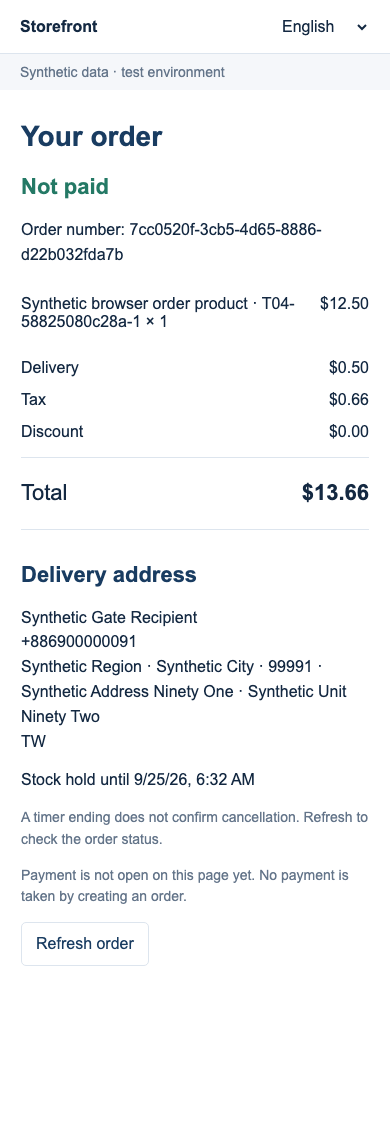
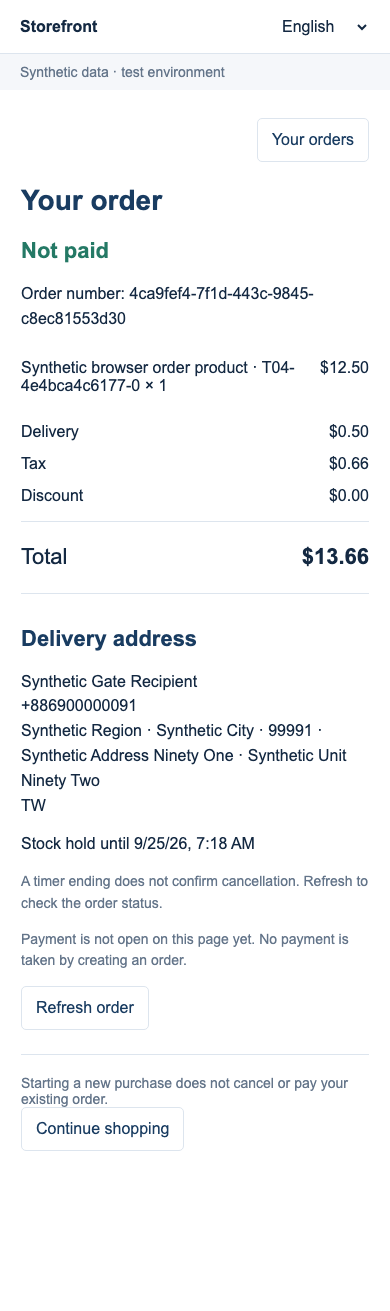
Record verified buyer history browser and visual evidence

diff --git a/README.md b/README.md
@@ -26,7 +26,7 @@
 - 买家商品数据前置：私有 `GET /v1/buyer/catalog` 已支持当前有效商品/SKU/现价、店铺隔离、受限查询和分页；[345 项回归与独立审查](docs/implementation/2026-09-25-buyer-catalog-discovery-acceptance.md)通过。这不是公开商城页面，也未生成分享链接或支付页。
 - 买家结账选项：私有 `GET /v1/buyer/checkout-options` 提供当前市场、地区、三语配送名称及下单所需版本；[353 项回归及 HTTP 选项→报价→宅配订单证据](docs/implementation/2026-09-25-buyer-checkout-options-acceptance.md)。复用现有结账权限与规则，不保证库存或承运资格；公开页面、可信超商选店和支付页仍待完成。
 - 买家会话重试前置：可信 BFF 用同一随机凭证调用私有 `POST /v1/buyer/session/bootstrap`，响应丢失或实例并发时保留同一身份、购物车及原期限；[17 项定向、361 项全量 race/vet 证据](docs/implementation/2026-09-25-buyer-session-registration-acceptance.md)。该历史切片仅为内部前置，后续浏览器传输见下一项。
-- 买家浏览器传输：`apps/storefront` 已有默认关闭的公开BFF、HttpOnly/context-CSRF、跨标签协调、持久退出与共享配额；[366项后端、7项前端单测、11场景真实Chromium→Next→Go→PG验收](docs/implementation/2026-09-25-buyer-browser-bff-acceptance.md)。实际传输链路到DRAFT订单/唯一库存预留。批准的[B商品详情直接选购](docs/implementation/2026-09-25-buyer-inline-progress.md)正在接入：真实页面已走到商品→购物车→报价，三语及跨标签恢复浏览器回归通过；地址/下单/支付UI、联合发布和真实DNS/TLS仍待完成。
+- 买家浏览器与B商品直购：`apps/storefront` 的默认关闭BFF、HttpOnly/context-CSRF、跨标签协调、持久退出与共享配额已有[传输验收](docs/implementation/2026-09-25-buyer-browser-bff-acceptance.md)。真实页面现覆盖商品→购物车→报价→宅配地址确认→未付款订单，以及显式继续选购和当前身份历史订单；[34项前端、382项后端/PG/race/vet、23场景订单/历史浏览器证据](docs/implementation/2026-09-25-buyer-history-progress.md)。三语保持身份及币种；独立历史视觉增量结论为有限范围 `ship`。支付UI、过期身份安全恢复、联合发布和真实DNS/TLS仍待完成。
 - 商家商品购买入口后端：只读返回已授权商品的三语购买URL，不增加PSP操作或修改原商品/SKU收据；[真实PG/HTTP与375项全量race/vet记录](docs/implementation/2026-09-25-merchant-purchase-entry-acceptance.md)。configured仅说明当前数据库发布配置，复制/打开UI必须与真实B买家路由一起验收；不是已完成自动收款。
 - 内部发起支付：真实买家权限、冻结金额/账户版本、订单与待支付库存/attempt/查询意图/回执/队列同事务；[合同](contracts/payment-start-v1.md)、[246项真实PG/race/vet及失败修正证据](docs/implementation/2026-09-24-payment-start-acceptance.md)。仅信用卡PROVIDER_MOCK内核；后续查询执行见下项，真实账户资格、付款表单、通知入账/退款/对账及公开页面仍待完成。
 - 支付查询与可信报告：精确租约读取历史凭据、实际 River 查询执行、验签后报告与 UNKNOWN 完成同事务、并发去重及持久化查询时限；[合同](contracts/payment-query-v1.md)、[查询阶段验收](docs/implementation/2026-09-24-payment-query-acceptance.md)。查询成功不是收款成功；后续财务判断由独立本地入账流程处理。
@@ -34,7 +34,7 @@
 - 商家配送配置内部内核：版本化启用／展示、独立运费、权限隔离、幂等与回滚已通过；[138 项后端回归及浏览器身份链证据](docs/implementation/2026-09-24-delivery-service-acceptance.md)。A向导已覆盖显式计价和商家自行安排配送；API模式仍仅禁用草稿，不代表承运商已接通，也不承诺任何物流都能投递超商。
 - 配送仓库配置与纯分配算法：逐配送方式保存仓库优先级、按可用库存拆仓，缺货不输出部分计划；[150 项回归、随机输入及浏览器兼容证据](docs/implementation/2026-09-24-delivery-allocation-acceptance.md)。后续已由下述内部 checkout 在余额行锁内消费；该历史纯函数验收本身不是并发防超卖证据。
 - 买家收货与门市来源：owner 隔离快照、可信门市引用、改选 CAS、回执隐私和锁等待后重验；[164 项真实 PG/race/vet 回归及浏览器兼容](docs/implementation/2026-09-24-buyer-destination-acceptance.md)。门市当前仅人工核验来源，不是官方目录／承运商接通；商家自助页面与完整支付链仍待实现。
-- 内部买家下单与到期释放：独立 checkout 权限、同事务 DRAFT 订单／HELD 预留／台账／River 任务、永久幂等、锁等待后重验和重复释放防护；[合同](contracts/buyer-checkout-v1.md)、[187 项真实 PG/race/vet 及浏览器兼容证据](docs/implementation/2026-09-24-buyer-checkout-acceptance.md)。后续内部StartPayment见上方；仍没有公开结账HTTP/UI、生产worker装配或第三方扣款。
+- 买家下单与到期释放内核：独立 checkout 权限、同事务 DRAFT 订单／HELD 预留／台账／River 任务、永久幂等、锁等待后重验和重复释放防护；[合同](contracts/buyer-checkout-v1.md)、[历史内核验收](docs/implementation/2026-09-24-buyer-checkout-acceptance.md)。后续默认关闭的结账HTTP/UI已在上述B商品直购切片验收；内部StartPayment见上方，生产worker装配与第三方扣款仍待完成。
 
 下文保留原设计包的基线说明；`MANIFEST.sha256` 对应原包，不能拿来验证新增实现。商品/结账、四域会话业务、台湾超商/跨境物流、Meta/支付/直播和三端 UI 仍需继续实现与独立验收。全局 G01–G15 未宣称通过。
 

diff --git a/docs/implementation/2026-09-25-buyer-history-progress.md b/docs/implementation/2026-09-25-buyer-history-progress.md
@@ -2,7 +2,9 @@
 
 Baseline `1b35842`; protocol `b8aa993`; frontend/index `d68845f`; delayed-load
 and storage fences `ddbcf21` / `e322f2b`; backend `75e77cb` (author `4954573`).
-Status: source and regression gates passed; new browser/visual gate in progress.
+Browser extension `442cbe7` (independent author `76452ff`).
+Status: source and real browser gates passed; independent visual verdict `ship`
+for this local extension. Built design documentation is being recorded.
 This is not payment, expired-account recovery, deployment or whole-SaaS release.
 
 ## Why this shape
@@ -44,20 +46,45 @@ The frozen behavior and negative gates are in
 | Full Go/PG/race/vet | 382 top-level tests PASS; foundation 147.280 s; includes migration 0024 | `/Volumes/data/output/buyer-history-full-regression.log` |
 | Existing buyer browser | 13 cases PASS, foundation 8.496 s | `/Volumes/data/output/buyer-history-existing-browser-regression.log`; `output/playwright/buyer-real-2965457144` |
 | Existing address/order browser | 15 cases, 6 buyers PASS; exactly one order/hold/job/receipt/reserve each; foundation 13.521 s | `/Volumes/data/output/buyer-history-existing-order-regression.log`; `output/playwright/buyer-order-2768957055` |
+| Extended history/order browser | 23 cases PASS; 6 buyers, 7 orders; one owner with two orders, five with one; exact facts and no payment/integration delta; foundation 16.695 s | `/Volumes/data/output/buyer-history-browser-root-final.log`; `output/playwright/buyer-order-615346821` |
 | Independent initial-load race | P2 resolved; old source negative control fails; fixed empty/B locator paths pass SOURCE/MOCK only | Humaux `e2d462b8-ba0f-411b-8c85-a3c37fe43394` |
 | Style detector | One call, incumbent Arial warning only; approved Operate world retained | `/Volumes/data/output/buyer-history-detector.json` |
+| Independent visual finish | `ship` for captured history/navigation/continuation extension; no material fixes | Humaux `dbea47ab-f474-471e-a3c2-6906d49dde14` |
 
 Tests use synthetic local HTTPS edges and disposable PostgreSQL. No customer
 platform changes, charges, cancellations or production writes occurred. The
 original failed backend assertion log is retained: it prohibited the newly
 approved public cart provenance; the corrected test asserts exact original
-cart values and still forbids internal metadata.
+cart values and still forbids internal metadata. The independent browser author's
+earlier failing assertion expected an empty quote after removing only the order
+locator; retaining the session quote is valid. That failed evidence remains in
+`output/playwright/buyer-order-774012255` in the author's worktree. The corrected
+test checks history availability and absence of a pinned order, not an invented
+empty-cart state. No production guard was relaxed.
+
+The eight added browser cases exercise lost continuation response and reload with
+one original key/body and receipt; an actual delayed initial order GET across
+tabs; distinct A/B orders with unchanged A snapshot and replay; owned pagination,
+detail/back/loading and all three locales; history after locator loss; preservation
+of a newer cart without a clearing PUT; no-op quote removal and recovery; empty
+foreign history and rejected foreign/malformed cursors. All owned test processes
+and disposable fixtures exited. These are actual Next/Go/PG tests, not provider
+sandbox payment tests.
+
+The root browser log SHA-256 is
[1 lines of base64/hex data omitted]
+The visual reviewer opened all eight required captures and the approved B comp.
+No standalone QUALITY BAR card was supplied: the approved ancestor, inherited
+Operate world and craft floor were used. Dedicated historical-detail, empty/error
+and all-locale screenshots were not separately supplied or visually certified;
+behavioral browser checks are not a substitute for that broader visual scope.
 
 ## Remaining acceptance and scope
 
-- Independent new real-browser A/B purchases, history and delayed-GET race gate.
-- Review the built history at desktop/mobile widths, then record the local
-  extension without changing global DESIGN.md or the approved B composition.
+- Independent new real-browser A/B purchases, history and delayed-GET race gate
+  are passed by both author and root; preserve this regression gate.
+- Record the reviewed local extension without changing global DESIGN.md or the
+  approved B composition. The independent visual disposition is bounded `ship`.
 - Secure expired-guest identity recovery remains required. Reset issues a new
   owner; order IDs, recipient names/phones and local hints cannot prove ownership.
 - Hosted per-order payment, trusted CVS/carrier mapping, real DNS/TLS deployment,
